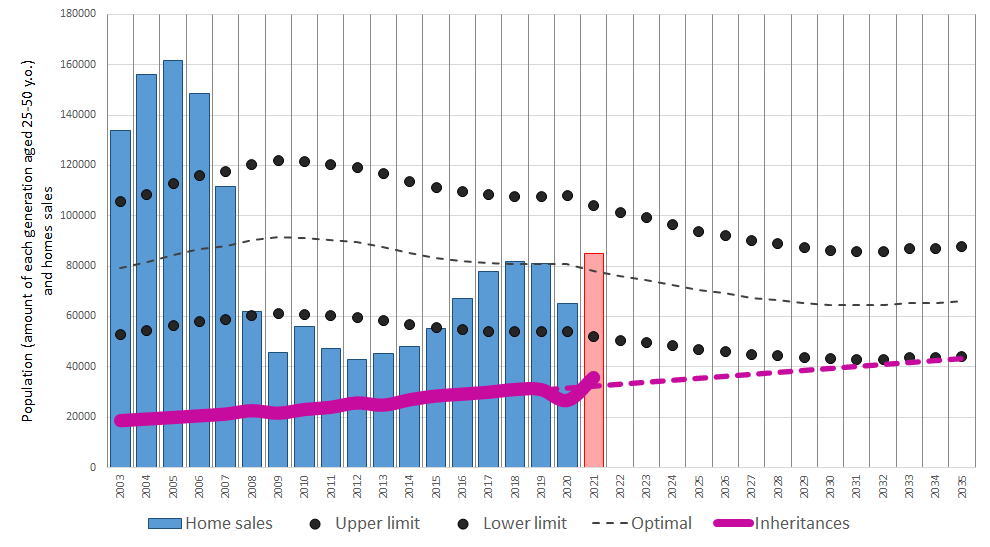
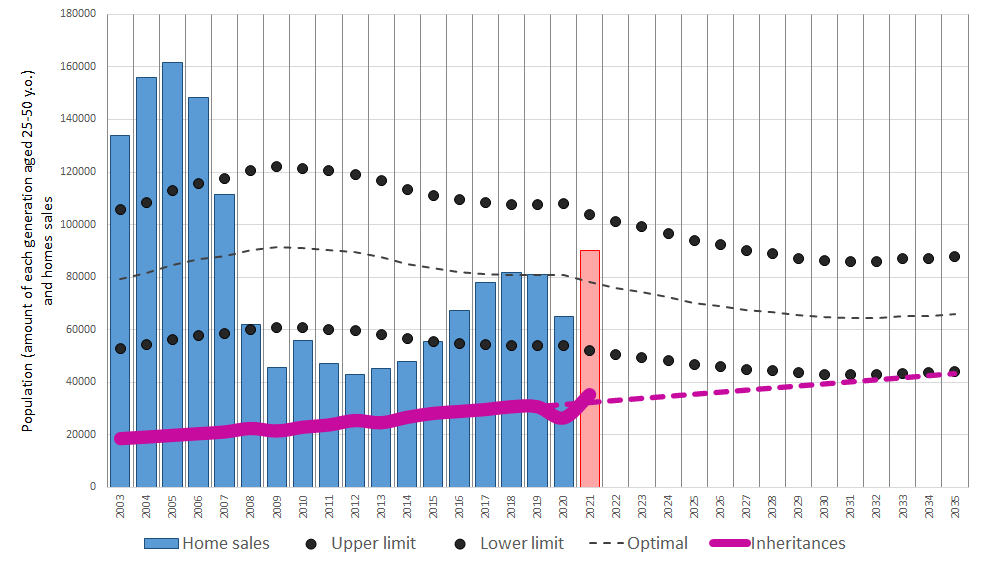
858

Changed region(s): [[0.0, 0.0311, 0.9766, 0.9945], [0.061, 0.0932, 0.1221, 0.1243], [0.061, 0.0, 0.1221, 0.0311]]

diff --git a/pages/posts/demography.md b/pages/posts/demography.md
@@ -1,6 +1,6 @@
 ---
 title: Home sales and demographic rhythm
-date: 2021-08-01
+date: 2021-07-31
 description: Data on the evolution of the number of home sales in relation to the purchasing-age-population, which is between 25 and 50 years old.
 tag: Demography, Volume
 author: Galetaire
@@ -13,13 +13,24 @@ import Image from 'next/image'
 <Image
   src="/images/demografia.png"
   alt="Reload chart"
-  width={990}
-  height={547}
+  width={983}
+  height={567}
   priority
   className="next-image"
 />
 
 - **Purchasing-age population (PAP)**: Home sales (bars); population between 25 and 50 years old (dotted lines); and housing inheritances (purple line).
+
+<Image
+  src="/images/demografia2.png"
+  alt="Reload chart"
+  width={983}
+  height={567}
+  priority
+  className="next-image"
+/>
+
+- **PAP disaggregated**: Home sales (bars); population of 35, 40 and 45 years old (colored dotted lines); and housing inheritances (purple line).
 
 # Interpretation and observations
 

diff --git a/pages/posts/volume.md b/pages/posts/volume.md
@@ -1,6 +1,6 @@
 ---
 title: Evolution of home sales
-date: 2021-08-01
+date: 2021-07-31
 description: Data on the evolution of the number of home sales. The higher the volume of transactions, the higher the price of housing tends to be.
 tag: Volume
 author: Galetaire
@@ -13,8 +13,8 @@ import Image from 'next/image'
 <Image
   src="/images/compravenda.png"
   alt="Reload chart"
-  width={1027}
-  height={526}
+  width={1058}
+  height={567}
   priority
   className="next-image"
 />
